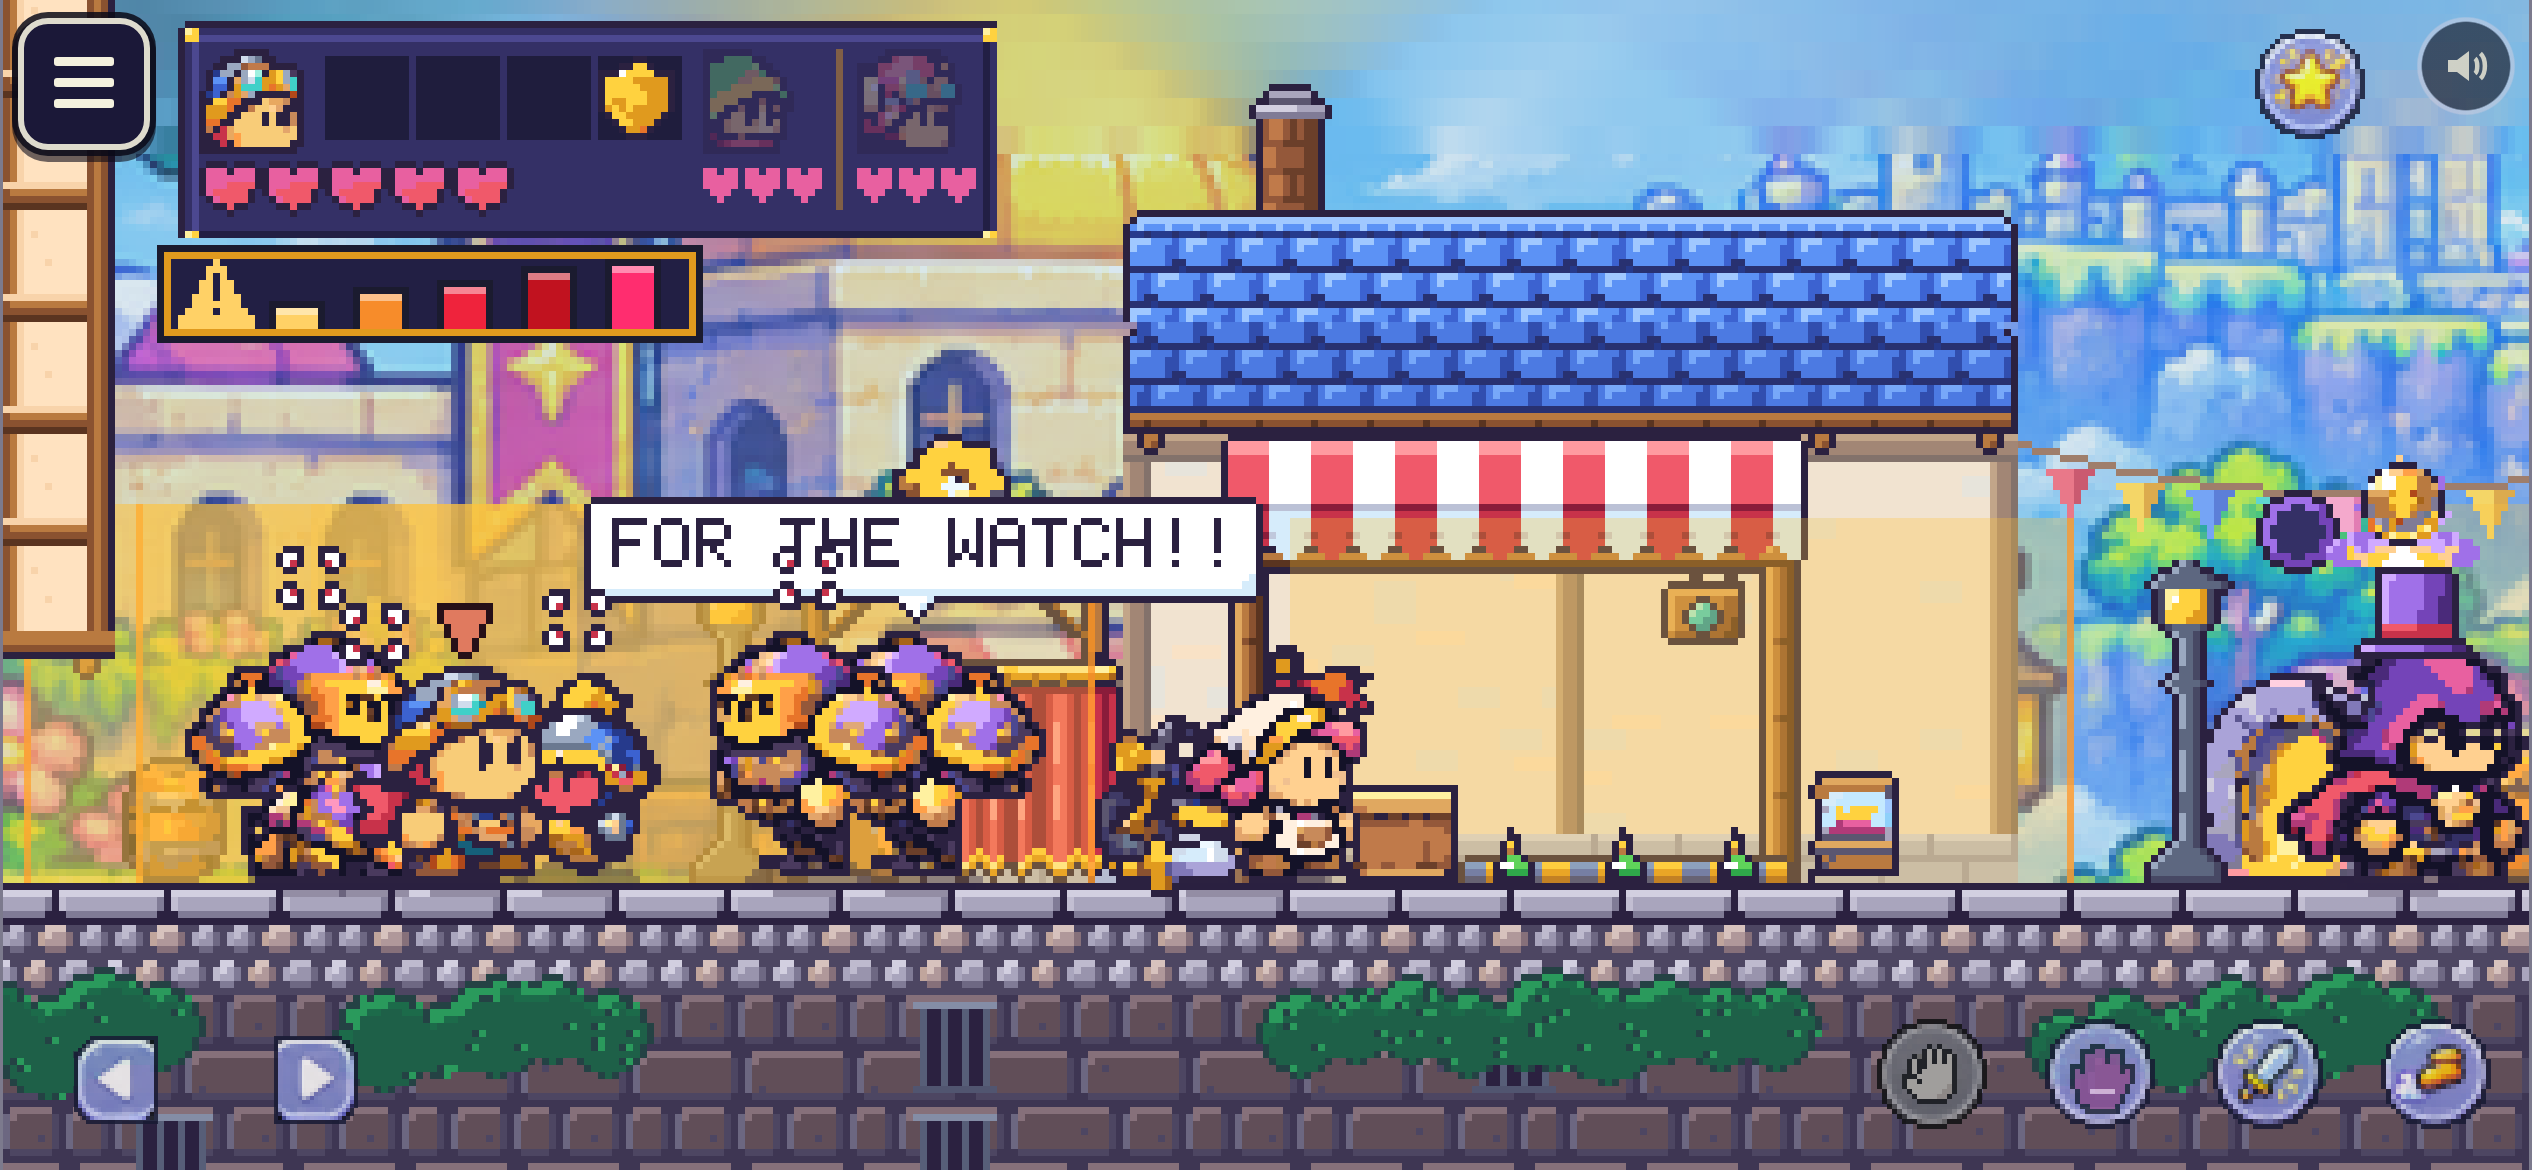
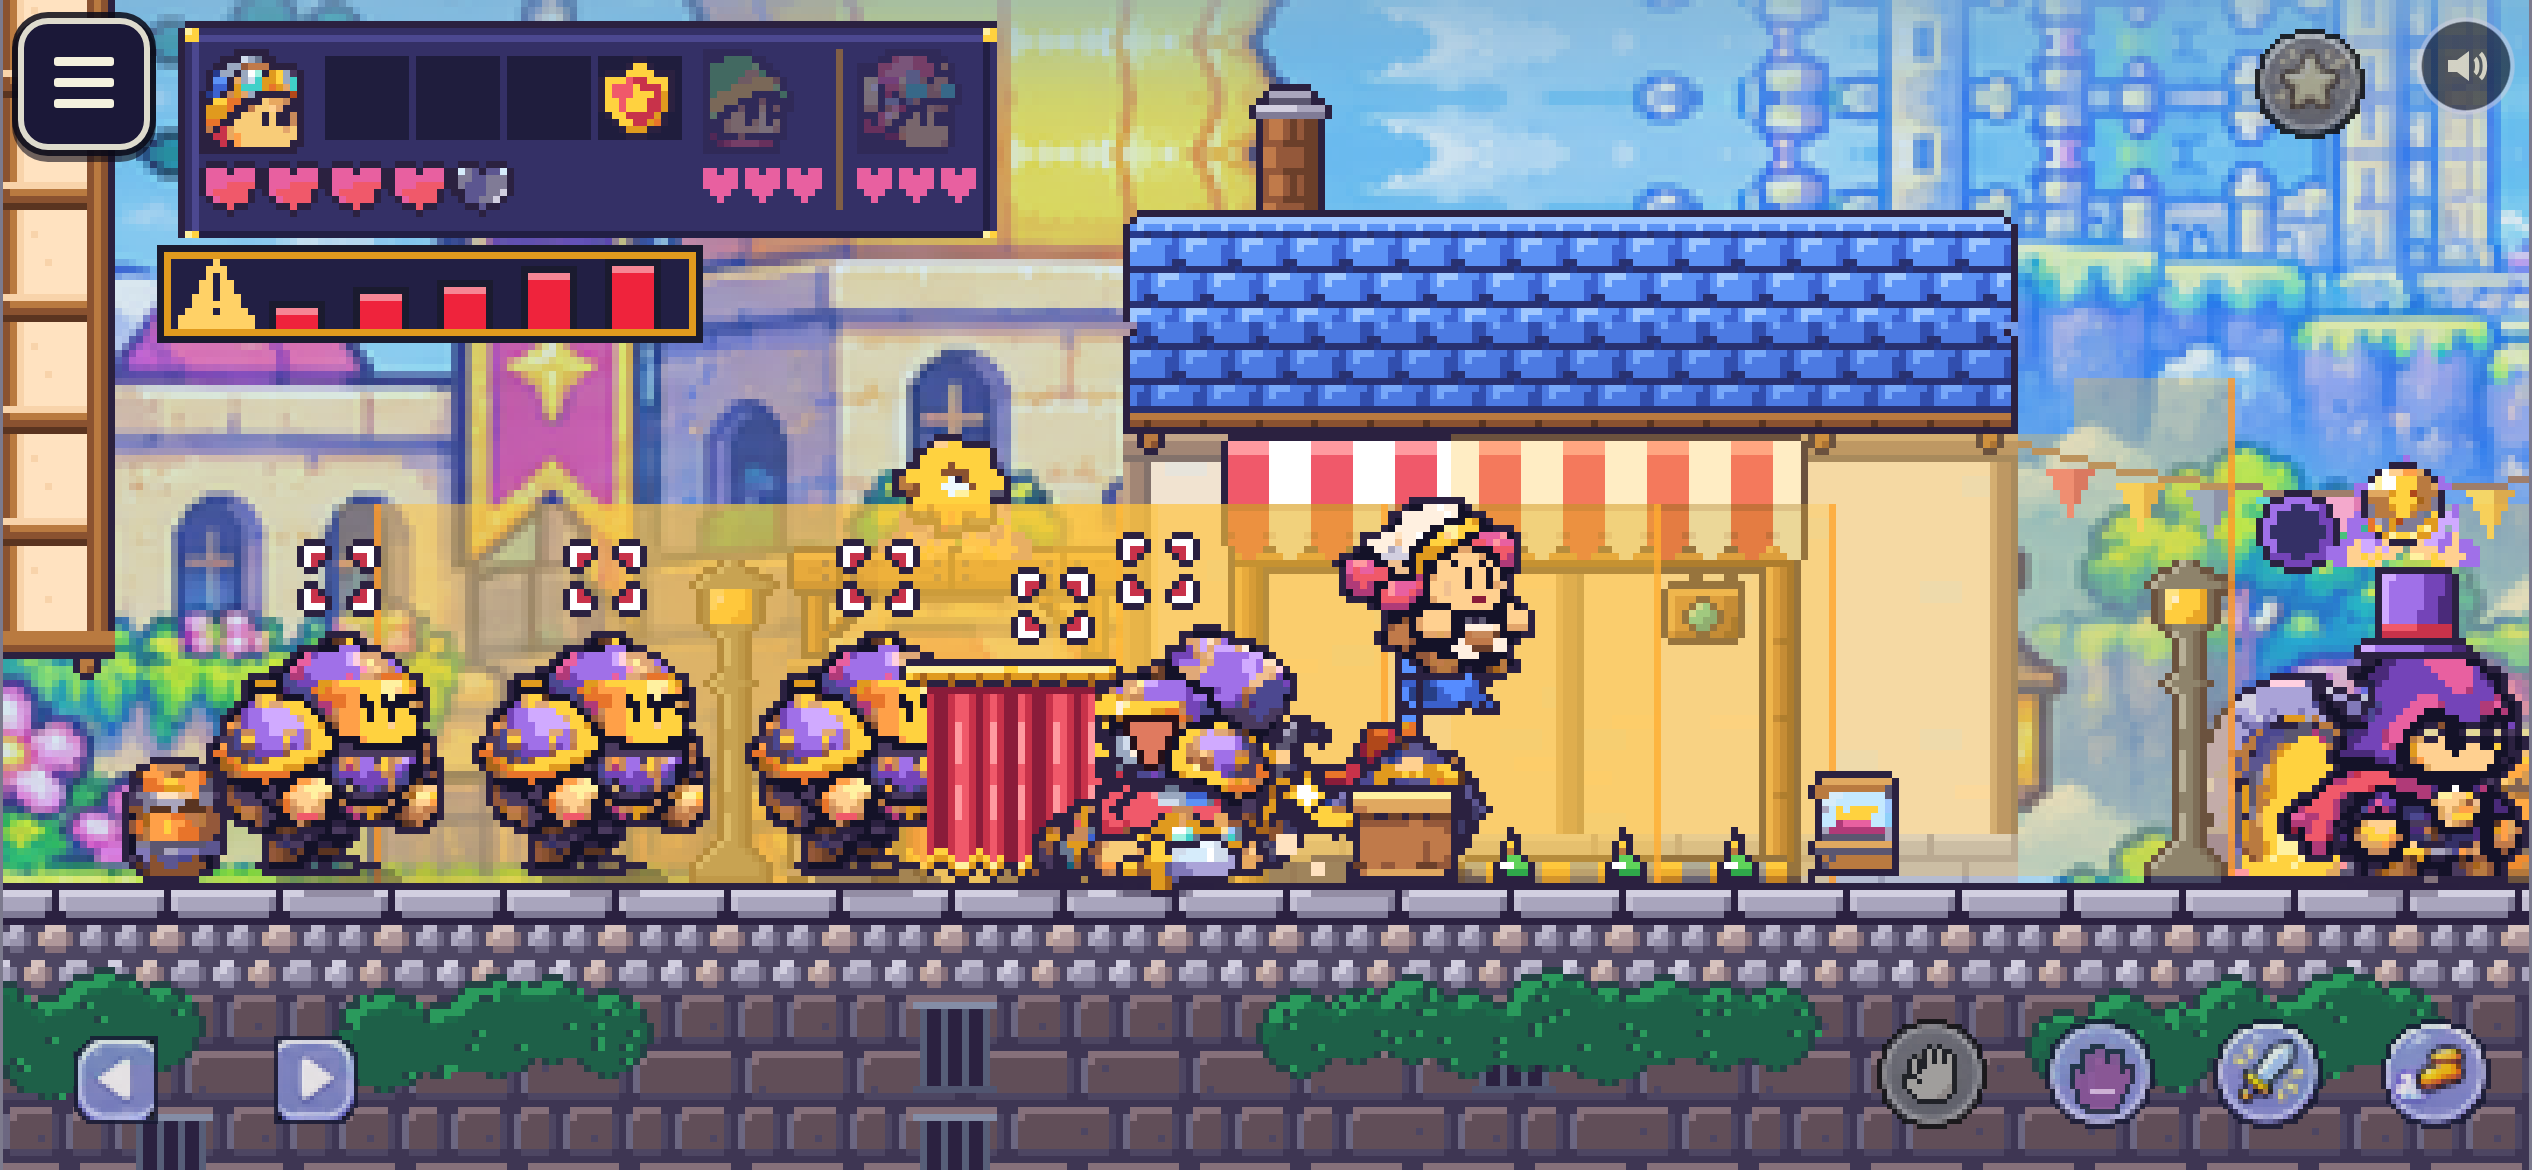
Escalating guard response: level 5 holds at most 4 armoured guards (as intended); the level-5 shots re-taken with the hero clear of the pile
Why: the orchestrator's blind look at push 1's shots counted four or five
armoured guards at level 5 with the hero lost in the pile.

Measured (step4-tier-level5-keeps-coming run on to tick 9000, the hero idle
in sight, every tick counted): at most 4 armoured guards in the street at
once (mean 2.1 from 5131), never 5: one each from rows 3 and 4, two from
row 5, since only plain guards are relieved. That is the table's intent:
not changed.

The shots: scripts/e2e/escalation.ts now walks the page's own hero on until
no person stands within 40 px of him (at most 3 s) before the level-5
shots; level5-{844x390,390x664}.png retaken, looked at: he stands alone
mid-screen with his marker. Level 4's are kept (walking there lets the
live world climb to 5 first). Ran: node scripts/e2e/escalation.ts, facts
escalation-level4/5/town green. Not verified on a real iPhone. Notes:
docs/plan/step-4.md. Measure row moved: none. Undo: revert the commit.

Claude-Session: https://claude.ai/code/session_017WiGzERchSa9FuWR3KYcZL

diff --git a/scripts/e2e/escalation.ts b/scripts/e2e/escalation.ts
@@ -98,6 +98,30 @@ async function intoStreet(ph: any, ms = 12000): Promise<boolean> {
   return ok;
 }
 
+/** Walks the page's own hero east (the stick held right) until no person the page draws stands within `gap` px of him across, or `ms` passes. */
+async function walkClear(ph: any, gap = 40, ms = 3000): Promise<void> {
+  const clear = (): Promise<boolean> =>
+    ph.page.evaluate((gap: number) => {
+      const d = (window as any).irreverents.drawn;
+      const me = d.entities.find((e: any) => e.mine);
+      if (!me) return true;
+      return d.entities.every((e: any) => e.mine || e.player !== null || e.mood === undefined || Math.abs(e.x - me.x) > gap);
+    }, gap);
+  if (await clear()) return;
+  const stick = await ph.page.evaluate(() => {
+    const el = document.querySelector('[data-stick]');
+    if (!el) return null;
+    const b = el.getBoundingClientRect();
+    return { x: Math.round(b.left + b.width * 0.9), y: Math.round(b.top + b.height / 2) };
+  });
+  if (!stick) return;
+  await ph.cdp.send('Input.dispatchTouchEvent', { type: 'touchStart', touchPoints: [{ ...stick, id: 1 }] });
+  const t0 = Date.now();
+  while (Date.now() - t0 < ms && !(await clear())) await sleep(50);
+  await ph.cdp.send('Input.dispatchTouchEvent', { type: 'touchEnd', touchPoints: [] });
+  await sleep(250);
+}
+
 export interface EscalationKit {
   browser: any;
   devices: any;
@@ -152,6 +176,10 @@ export async function escalationFacts(kit: EscalationKit): Promise<void> {
         for (const s of [{ w: 844, h: 390 }, { w: 390, h: 664 }]) {
           await ph.page.setViewportSize({ width: s.w, height: s.h });
           await sleep(400);
+          // The blind look at push 1's shots (docs/plan/step-8.md, last section): the page's own hero stood inside the
+          // pile at the west door and could not be found. At 5 the shot is taken once he has walked clear of the watch
+          // (at 4, walking lets the live world climb to 5 before the shot, and the trike drives off the view).
+          if (l.level === 5) await walkClear(ph);
           await ph.page.screenshot({ path: path.join(kit.out, `level${l.level}-${s.w}x${s.h}.png`) });
         }
       }

diff --git a/docs/plan/step-4.md b/docs/plan/step-4.md
@@ -891,6 +891,11 @@ the owner is playing and pushes are paused).**
   followers count against the street's cap while away (push 1's doubt 1);
   they also count in the room they are in, so a small room fills quickly.
 
+**Push 3's builder (`session_017WiGzERchSa9FuWR3KYcZL`), item 1 of the orchestrator's 2026-11-25 message: how many armoured guards at level 5.**
+- **Measured** (`step4-tier-level5-keeps-coming` run on to tick 9000, the hero idle and in sight from 5314; every tick counted): the street holds at most **4** armoured guards at once (from 5131: the most 4, the mean 2.1; 4 at 5400 and 6300, 1 to 3 between, as they are knocked out, led out of the street or follow the hero through a door). Never 5. That is the rows' sum, as the table and the brief intend: one from row 3, one from row 4 (beside the trike's driver), two from row 5; only plain guards are relieved (`relieve: ["guard"]`), so the stronger stay. The blind look's "four or five" is this 4 (the trike's driver, purple-helmeted, may read as a fifth). Not changed.
+- **The hero lost in the pile:** the page's own hero walked 500 ms into the street and stopped inside the knot of watchmen at the west door. `scripts/e2e/escalation.ts` now walks him on (the stick held right) until no person stands within 40 px of him across, at most 3 s, before the level-5 shots: `level5-{844x390,390x664}.png` retaken; he stands alone mid-screen with his marker, the armoured group at the left (upright, only its edge is in view). Level 4 is shot as before: walking there lets the live world climb to 5 before the shot (seen: the "whole town" banner) and the trike drives out of view; push 1's level-4 shots are kept. Facts `escalation-level4/5/town` green.
+- **Not fixed, for whoever owns the drawing (`src/client/draw/entities.ts`, actors lane):** heroes are drawn in the world's order, so watchmen who walk in later are drawn over the hero they surround; drawing players last (or a stronger own-hero mark) would keep him findable in a real pile. The "FOR THE WATCH!!" bark covering stun marks is the barks' lane.
+
 ### Guards meet bandits, push 1 (builder, 2026-11-25)
 
 - **The rule:** `answers` in `content/hostility.json` (good side against bad side), `npcAnswerMemory` 6 s in `content/tuning.json`, read first in `clash-fight` ahead of the hero-first skip. Scenarios `step4-clash-street-guard-and-villain`, `-answer-ahead-of-hero`, `-same-side-no-answer`, `-way-out-brawler` and `-way-out-brawler-cantina` (the brief's "second run", its own file), each control watched failing.
